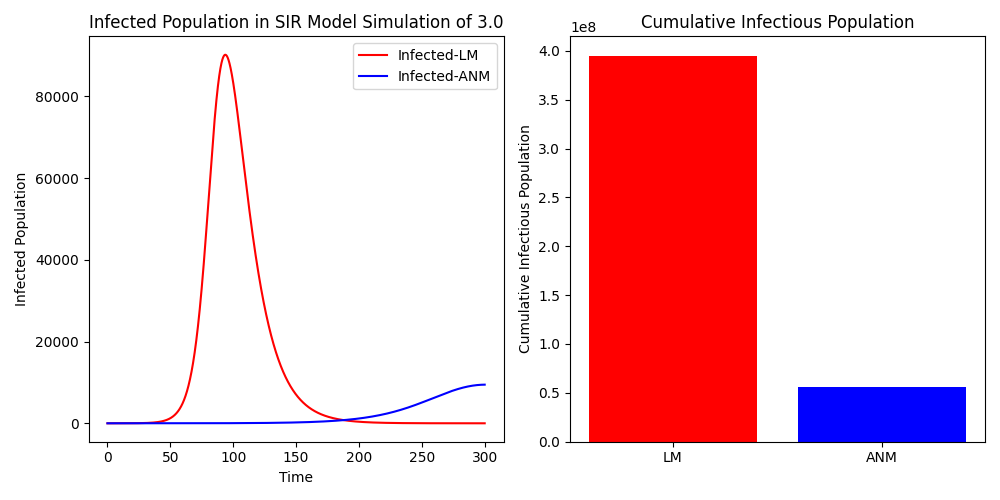
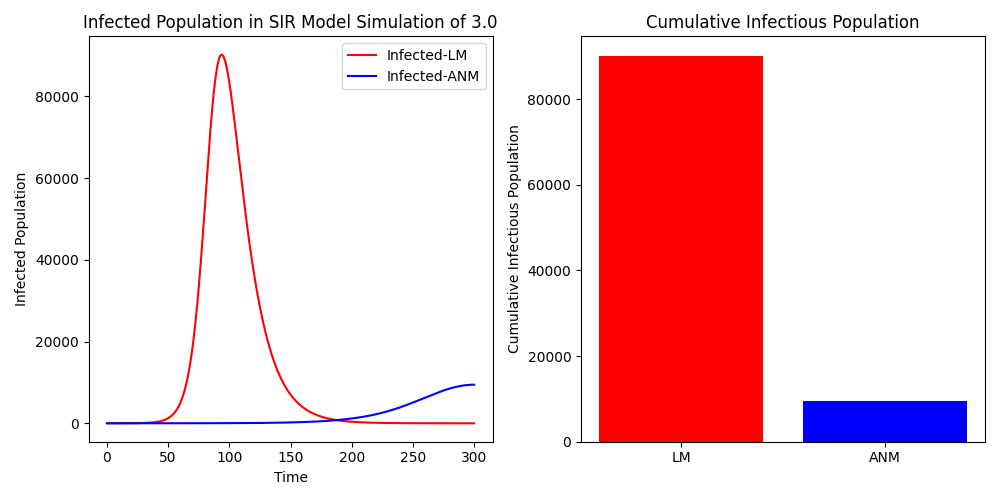
bar plots and fixes

diff --git a/hw2/q2/mod_sir.py b/hw2/q2/mod_sir.py
@@ -1,7 +1,6 @@
 import numpy as np
-import matplotlib.pyplot as plt
 
-def forward_euler_solver_lm(R_0, N, vaccine_efficiency):
+def forward_euler_solver_lm(R_0, N, VE):
     # Fixed duration for infectious period
     infectious_period = 14  # Assume a fixed duration for simplicity
     
@@ -31,29 +30,39 @@ def forward_euler_solver_lm(R_0, N, vaccine_efficiency):
     
     # Forward Euler method
     for t in np.arange(t_initial, t_final, delta_t):
-        # Update equations for S, I, R
-        S_n = S + delta_t * (-beta * S * I / N)
-        I_n = I + delta_t * (beta * S * I / N - gamma * I)
-        R_n = R + delta_t * (gamma * I)
+        # Update equations for S, I, R, V
+        dS_dt = -beta * S * I / N
         
-        # Update equation for V (vaccinated individuals)
-        V_n = V + delta_t * (vaccine_efficiency * (1 - V))
+        if VE == 0:
+            # When VE is 0, LM behaves like regular SIR
+            dI_dt = beta * S * I / N - gamma * I
+            dV_dt = 0  # No change in vaccinated individuals
+        elif VE == 1:
+            # When VE is 1, no new infections and everyone is vaccinated
+            dI_dt = 0  # No change in infected individuals
+            dV_dt = 0  # No change in vaccinated individuals
+        else:
+            dI_dt = beta * S * I / N + beta * V * I * (1 - VE) / N - gamma * I
+            dV_dt = -(beta * V * (1 - VE)) / N  # Adjusted vaccination rate
         
-        susceptibles.append(S_n)
-        infected.append(I_n)
-        recovered.append(R_n)
-        vaccinated.append(V_n)
+        # Update values using Euler method
+        S += delta_t * dS_dt
+        I += delta_t * dI_dt
+        R += delta_t * gamma * I
+        V += delta_t * dV_dt
+        
+        susceptibles.append(S)
+        infected.append(I)
+        recovered.append(R)
+        vaccinated.append(V)
         time.append(t + delta_t)  # Use current time t for consistency
-        
-        # Update values for next iteration
-        S, I, R, V = S_n, I_n, R_n, V_n
     
-    total_infections = np.sum(infected)
+    total_infections = max(infected)
     
     return time, susceptibles, infected, recovered, vaccinated, total_infections
 
 
-def forward_euler_solver_anm(R_0, N, vaccine_coverage):
+def forward_euler_solver_anm(R_0, N, VE):
     # Fixed duration for infectious period
     infectious_period = 14  # Assume a fixed duration for simplicity
     
@@ -85,10 +94,24 @@ def forward_euler_solver_anm(R_0, N, vaccine_coverage):
     for t in np.arange(t_initial, t_final, delta_t):
         # Update equations for S, I, R, V_null, and V_all
         dS_dt = -beta * S * I / N
-        dI_dt = beta * S * I / N - gamma * I
-        dR_dt = gamma * I
-        dV_null_dt = -beta * V_null * I
-        dV_all_dt = N * vaccine_coverage * (-beta * S * I / N)
+        
+        if VE == 0:
+            # When VE is 0, ANM behaves like regular SIR
+            dI_dt = beta * S * I / N - gamma * I
+            dV_null_dt = 0  # No change in vaccinated individuals
+            dR_dt = gamma * I
+            dV_all_dt = 0  # No change in vaccinated individuals
+        elif VE == 1:
+            # When VE is 1, no new infections and everyone is vaccinated
+            dI_dt = 0  # No change in infected individuals
+            dV_null_dt = 0  # No change in vaccinated individuals
+            dR_dt = 0  # No change in recovered individuals
+            dV_all_dt = 0  # No change in vaccinated individuals
+        else:
+            dI_dt = beta * S * I / N + beta * V_null * I / N - gamma * I
+            dV_null_dt = -beta * V_null * I / N
+            dR_dt = gamma * I
+            dV_all_dt = N * VE * (-beta * S * I / N)
         
         S += delta_t * dS_dt
         I += delta_t * dI_dt
@@ -103,7 +126,6 @@ def forward_euler_solver_anm(R_0, N, vaccine_coverage):
         vaccinated_all.append(V_all)
         time.append(t + delta_t)  # Use current time t for consistency
     
-    total_infections = np.sum(infected)
+    total_infections = max(infected)
     
     return time, susceptibles, infected, recovered, vaccinated_null, vaccinated_all, total_infections
-

diff --git a/hw2/q2/plot_sir.py b/hw2/q2/plot_sir.py
@@ -30,17 +30,21 @@ def main():
 
     args = parser.parse_args()
     
+    # Run LM and ANM simulations
     lm_data = forward_euler_solver_lm(args.R_0, args.N, args.VE)
     anm_data = forward_euler_solver_anm(args.R_0, args.N, args.VE)
-    lm_cumulative_infectious = round(lm_data[5],0)
-    anm_cumulative_infectious = round(anm_data[6],0)
-    # print(f'cumulative infectious for lm : {lm_cumulative_infectious}')
-    # print(f'cumulative infectious for anm : {anm_cumulative_infectious}')
+    
+    # Extract cumulative infectious populations
+    lm_cumulative_infectious = round(lm_data[5], 0)  # Last value of infected from LM data
+    anm_cumulative_infectious = round(anm_data[6], 0)  # Last value of infected from ANM data
+    
+    print(f'Cumulative infectious for LM: {lm_cumulative_infectious}')
+    print(f'Cumulative infectious for ANM: {anm_cumulative_infectious}')
     
     # Plotting
     fig, (ax1, ax2) = plt.subplots(1, 2, figsize=(10, 5))
 
-    # Original Plots
+    # SIR dynamic curves 
     ax1.plot(lm_data[0], lm_data[2], color='red', label='Infected-LM')
     ax1.plot(anm_data[0], anm_data[2], color='blue', label='Infected-ANM')
     ax1.set_xlabel('Time')
@@ -48,7 +52,7 @@ def main():
     ax1.set_title(f'Infected Population in SIR Model Simulation of {args.R_0}')
     ax1.legend()
 
-    # New Plots
+    # Bar Plots
     ax2.bar(['LM', 'ANM'], [lm_cumulative_infectious, anm_cumulative_infectious], color=['red', 'blue'])
     ax2.set_ylabel('Cumulative Infectious Population')
     ax2.set_title('Cumulative Infectious Population')
